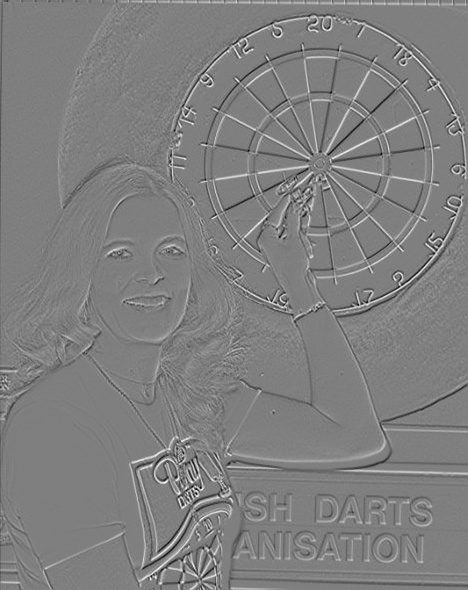
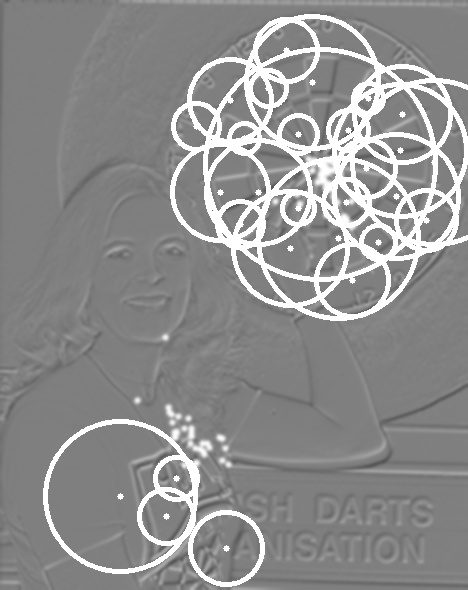
Hough Transform

diff --git a/Assignment/task3/task.cpp b/Assignment/task3/task.cpp
@@ -4,6 +4,7 @@
 #include <opencv/cxcore.h>    //depending on your machine setup
 #include <string>
 #include <math.h>
+#include <vector>
 
 using namespace cv;
 
@@ -90,6 +91,7 @@ void sobel (cv::Mat &input, cv::Mat &outputX, cv::Mat &outputY, cv::Mat &mag, cv
   convolve(input, kernelY, outputY);
 
   double tempMag[input.rows][input.cols];
+
   //find mag and dir
   for ( int i = 0; i < input.rows; i++ ) {
 		for( int j = 0; j < input.cols; j++ ) {
@@ -125,10 +127,189 @@ void sobel (cv::Mat &input, cv::Mat &outputX, cv::Mat &outputY, cv::Mat &mag, cv
 
 }
 
+// Finds the intersection of two lines, or returns false.
+// The lines are defined by (o1, p1) and (o2, p2).
+bool intersection(Point2f o1, Point2f p1, Point2f o2, Point2f p2, Point2f &r)
+{
+    Point2f x = o2 - o1;
+    Point2f d1 = p1 - o1;
+    Point2f d2 = p2 - o2;
+
+    float cross = d1.x*d2.y - d1.y*d2.x;
+    if (abs(cross) < /*EPS*/1e-8)
+        return false;
+
+    double t1 = (x.x * d2.y - x.y * d2.x)/cross;
+    r = o1 + d1 * t1;
+    return true;
+}
+
+
+void HoughTransformLine(cv::Mat &input, cv::Mat &output)
+{
+
+    Canny(input, output, 50, 200, 3);
+    vector<Vec2f> lines;
+
+    //dst: Output of the edge detector. It should be a grayscale image (although in fact it is a binary one)
+    //lines: A vector that will store the parameters (r,\theta) of the detected lines
+    //rho : The resolution of the parameter r in pixels. We use 1 pixel.
+    //theta: The resolution of the parameter \theta in radians. We use 1 degree (CV_PI/180)
+    //threshold: The minimum number of intersections to “detect” a line
+    //srn and stn: Default parameters to zero. Check OpenCV reference for more info.
+    HoughLines(output, lines, 1, CV_PI/180, 80, 0, 0 );
+    output = input;
+
+    //for( size_t i = 0; i < lines.size(); i++ )
+    //{
+    //  float rho = lines[i][0], theta = lines[i][1];
+    //  Point pt1, pt2;
+    //  double a = cos(theta), b = sin(theta);
+    //  double x0 = a*rho, y0 = b*rho;
+    //  pt1.x = cvRound(x0 + 1000*(-b));
+    //  pt1.y = cvRound(y0 + 1000*(a));
+    //  pt2.x = cvRound(x0 - 1000*(-b));
+    //  pt2.y = cvRound(y0 - 1000*(a));
+    //  //line(output, pt1, pt2, Scalar(0,0,255), 3, CV_AA);
+    //  Point center(x0, y0);
+    //  circle( output, center, 3, Scalar(255,0,0), -1, 8, 0 );
+    //}
+    //
+    //
+    //
+
+    const int x = input.rows;
+    const int y = input.cols;
+
+    int crosses[x][y];
+    float sum = 0;
+
+    // Set element x1,y1 to 5
+
+
+    //// Set up sizes. (HEIGHT x WIDTH)
+    //crosses.resize(input.rows);
+    //for (int i = 0; i < input.rows; ++i)
+    //    crosses[i].resize(input.cols);
+
+
+    for ( int i = 0; i < input.rows; i++ )
+	{
+		for( int j = 0; j < input.cols; j++ )
+		{
+            crosses[i][j] = 0;
+        }
+    }
+
+    for( size_t i = 0; i < lines.size(); i++ )
+    {
+        for( size_t j = i+1; j < lines.size(); j++ )
+        {
+            float rho = lines[i][0], theta = lines[i][1];
+            Point o1, p1;
+            double a = cos(theta), b = sin(theta);
+            double x0 = a*rho, y0 = b*rho;
+            o1.x = cvRound(x0 + 1000*(-b));
+            o1.y = cvRound(y0 + 1000*(a));
+            p1.x = cvRound(x0 - 1000*(-b));
+            p1.y = cvRound(y0 - 1000*(a));
+
+            rho = lines[j][0];
+            theta = lines[j][1];
+            Point o2, p2;
+            a = cos(theta), b = sin(theta);
+            x0 = a*rho, y0 = b*rho;
+            o2.x = cvRound(x0 + 1000*(-b));
+            o2.y = cvRound(y0 + 1000*(a));
+            p2.x = cvRound(x0 - 1000*(-b));
+            p2.y = cvRound(y0 - 1000*(a));
+
+            Point2f r;
+
+            if (intersection(o1, p1, o2, p2, r)) {
+                if (r.x < input.rows && r.y < input.cols && r.x > 0 && r.y > 0) {
+                    int x = r.x;
+                    int y = r.y;
+                    crosses[x][y] += 1;
+                    sum ++;
+                }
+            }
+
+        }
+    }
+
+	for ( int i = 0; i < input.rows; i++ )
+	{
+		for( int j = 0; j < input.cols; j++ )
+		{
+            if (crosses[i][j] > (sum / (5 * lines.size()))) {
+                Point center;
+                center.x = i;
+                center.y = j;
+                circle( output, center, 3, Scalar(255,0,0), -1, 8, 0 );
+            }
+        }
+    }
+
+
+	//for ( int i = 0; i < input.rows; i++ )
+	//{
+	//	for( int j = 0; j < input.cols; j++ )
+	//	{
+    //        printf("%d-", crosses[i][j]);
+    //    }
+    //        printf("\n\n");
+    //}
+
+
+        //if (sum > (3*lines.size()/4)) {
+        //if (sum > (9*lines.size()/10)) {
+        //    avx = avx / sum;
+        //    avy = avy / sum;
+        //}
+    //vector<Vec4i> lines;
+    //HoughLinesP(output, lines, 1, CV_PI/180, 50, 50, 5 );
+    //for(int i = 0; i < lines.size(); i++ )
+    //{
+    //    Vec4i l = lines[i];
+    //    line( output, Point(l[0], l[1]), Point(l[2], l[3]), Scalar(0,0,255), 3, CV_AA);
+    //}
+}
+
+void HoughTransformCircle(cv::Mat &input, cv::Mat &output)
+{
+
+    GaussianBlur( input, input, Size(9, 9), 1.5, 1.5 );
+    vector<Vec3f> circles;
+    //src_gray: Input image (grayscale)
+    //circles: A vector that stores sets of 3 values: x_{c}, y_{c}, r for each detected circle.
+    //CV_HOUGH_GRADIENT: Define the detection method. Currently this is the only one available in OpenCV
+    //dp = 1: The inverse ratio of resolution
+    //min_dist = src_gray.rows/8: Minimum distance between detected centers
+    //param_1 = 200: Upper threshold for the internal Canny edge detector
+    //param_2 = 100*: Threshold for center detection.
+    //min_radius = 0: Minimum radio to be detected. If unknown, put zero as default.
+    //max_radius = 0: Maximum radius to be detected. If unknown, put zero as default
+    HoughCircles( input, circles, CV_HOUGH_GRADIENT, 1, output.rows/16, 100, 35, 10, 120);
+
+    //Mat image(320, 240, CV_8UC3, Scalar(0,0,0));
+    for( size_t i = 0; i < circles.size(); i++ )
+    {
+       Point center(cvRound(circles[i][0]), cvRound(circles[i][1]));
+       int radius = cvRound(circles[i][2]);
+       circle( output, center, 3, Scalar(255,255,255), -1, 8, 0 );
+       circle( output, center, radius, Scalar(255,255,255), 3, 8, 0 );
+    }
+
+    //output = image;
+}
+
+
 int main( int argc, const char** argv )
 {
 
  Mat image, outputX, outputY, mag, dir;
+ Mat line, hough;
  Mat grey_image;
  image = imread( argv[1], 1 );
  cvtColor(image, grey_image, CV_BGR2GRAY);
@@ -145,9 +326,11 @@ int main( int argc, const char** argv )
  }
 
  sobel(grey_image, outputX, outputY, mag, dir);
+ //HoughTransformCircle(mag, hough);
+ HoughTransformLine(mag, line);
+ HoughTransformCircle(mag, line);
  //imwrite("dx.png", outputX);
- //imwrite("dy.png", outputY);
- imwrite(argv[2], mag);
+ imwrite(argv[2], line);
  //imwrite("dir.png", dir);
 
  return 0;
